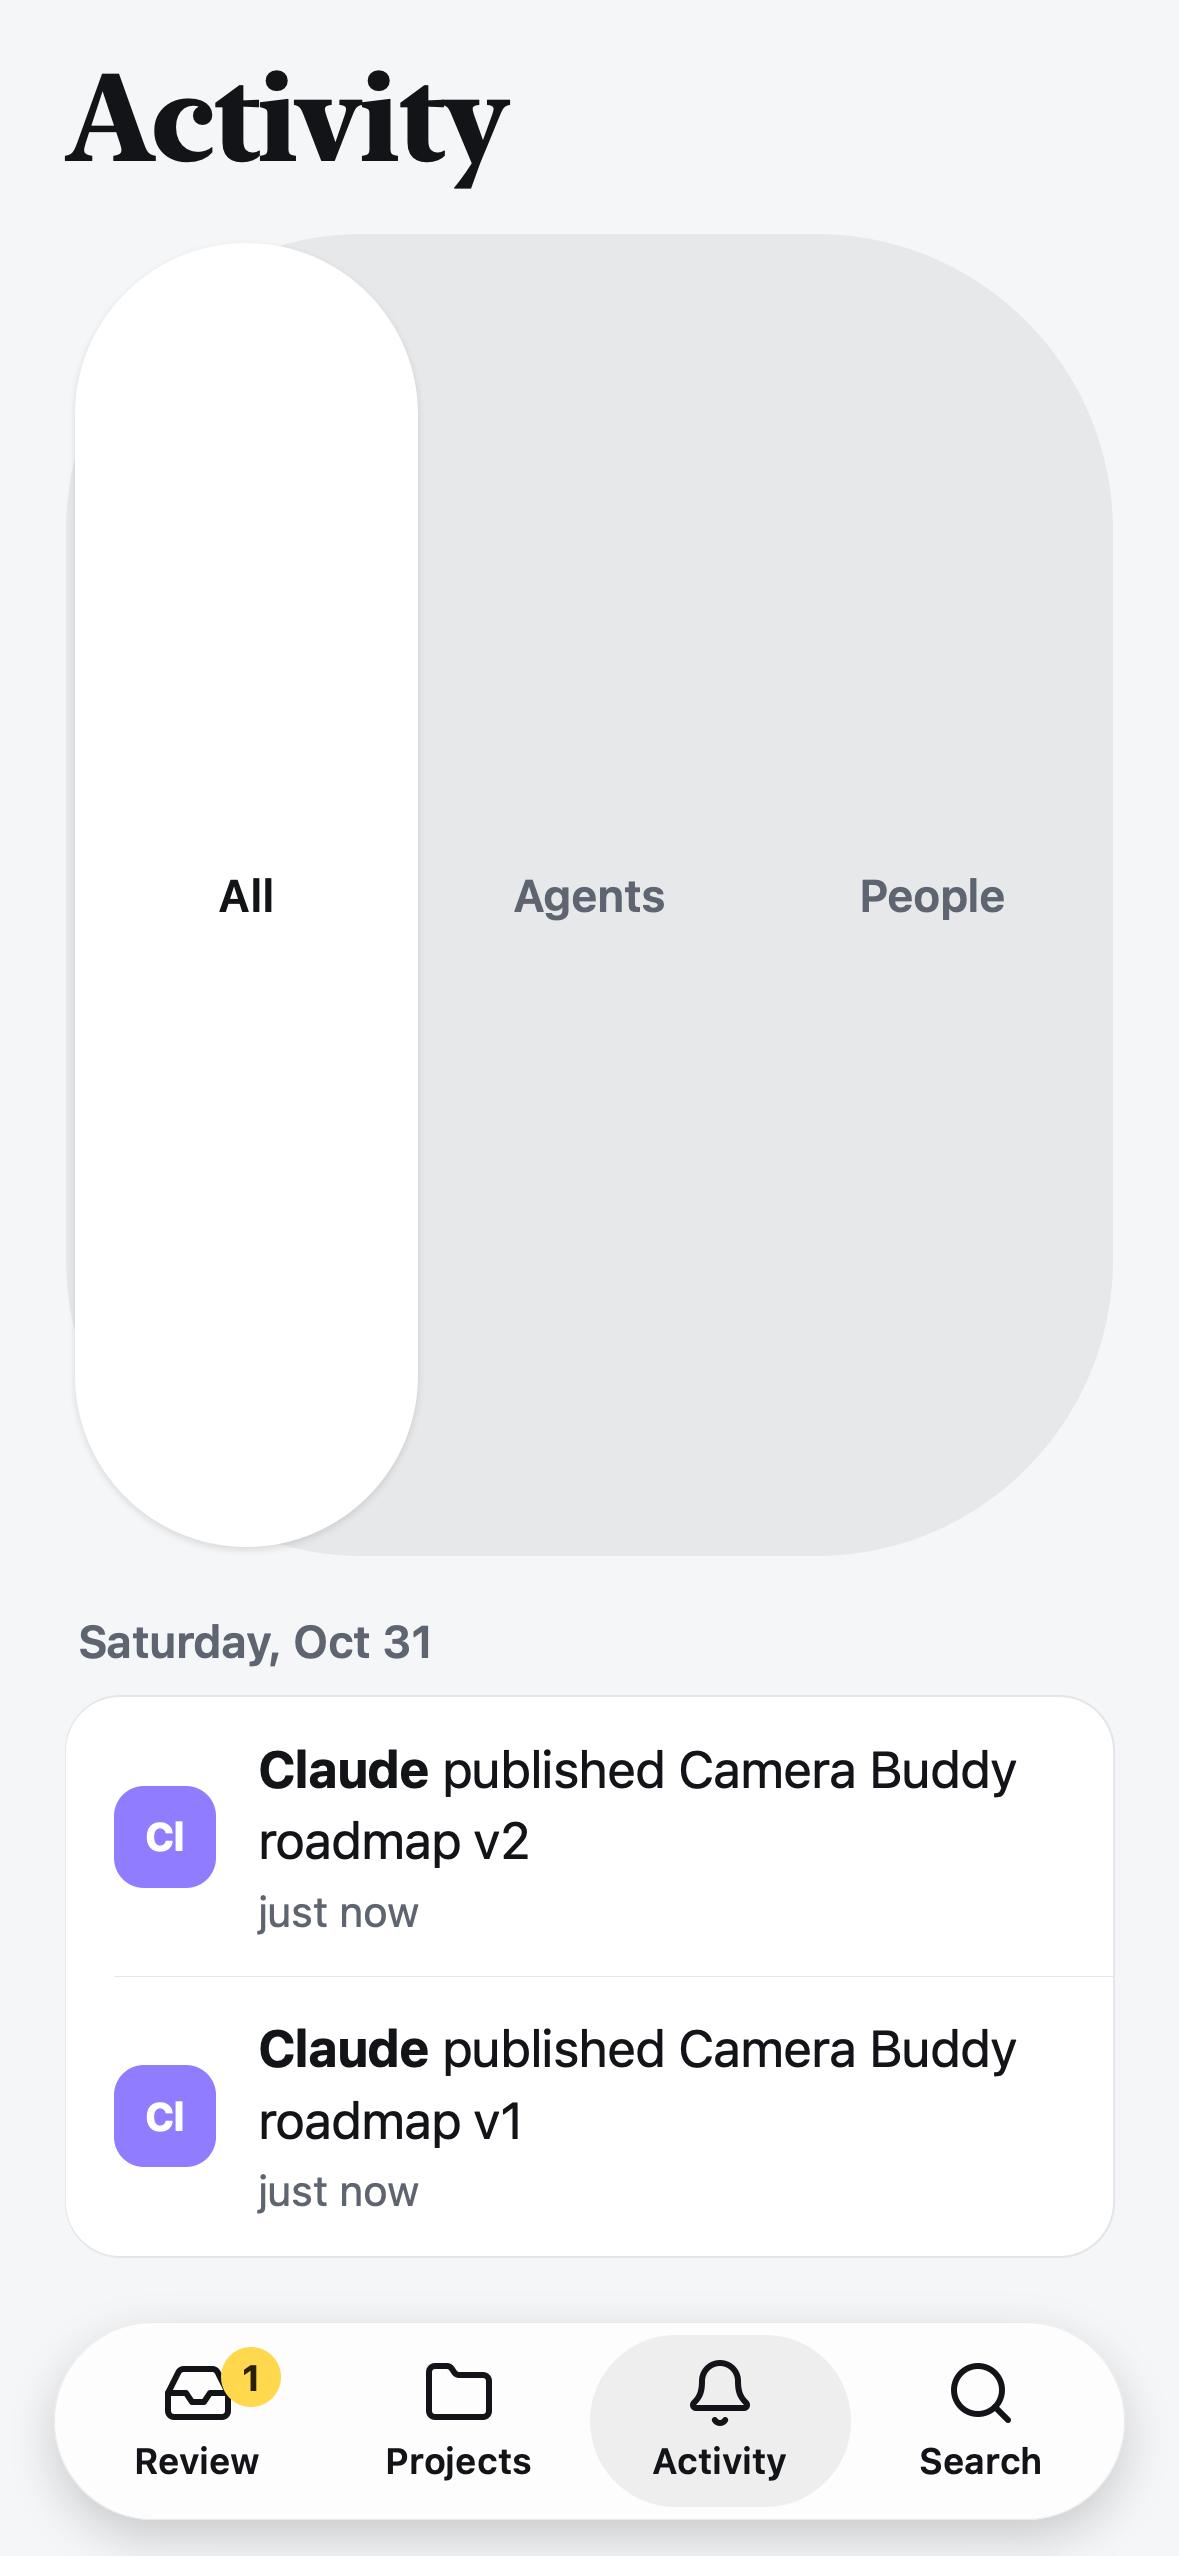
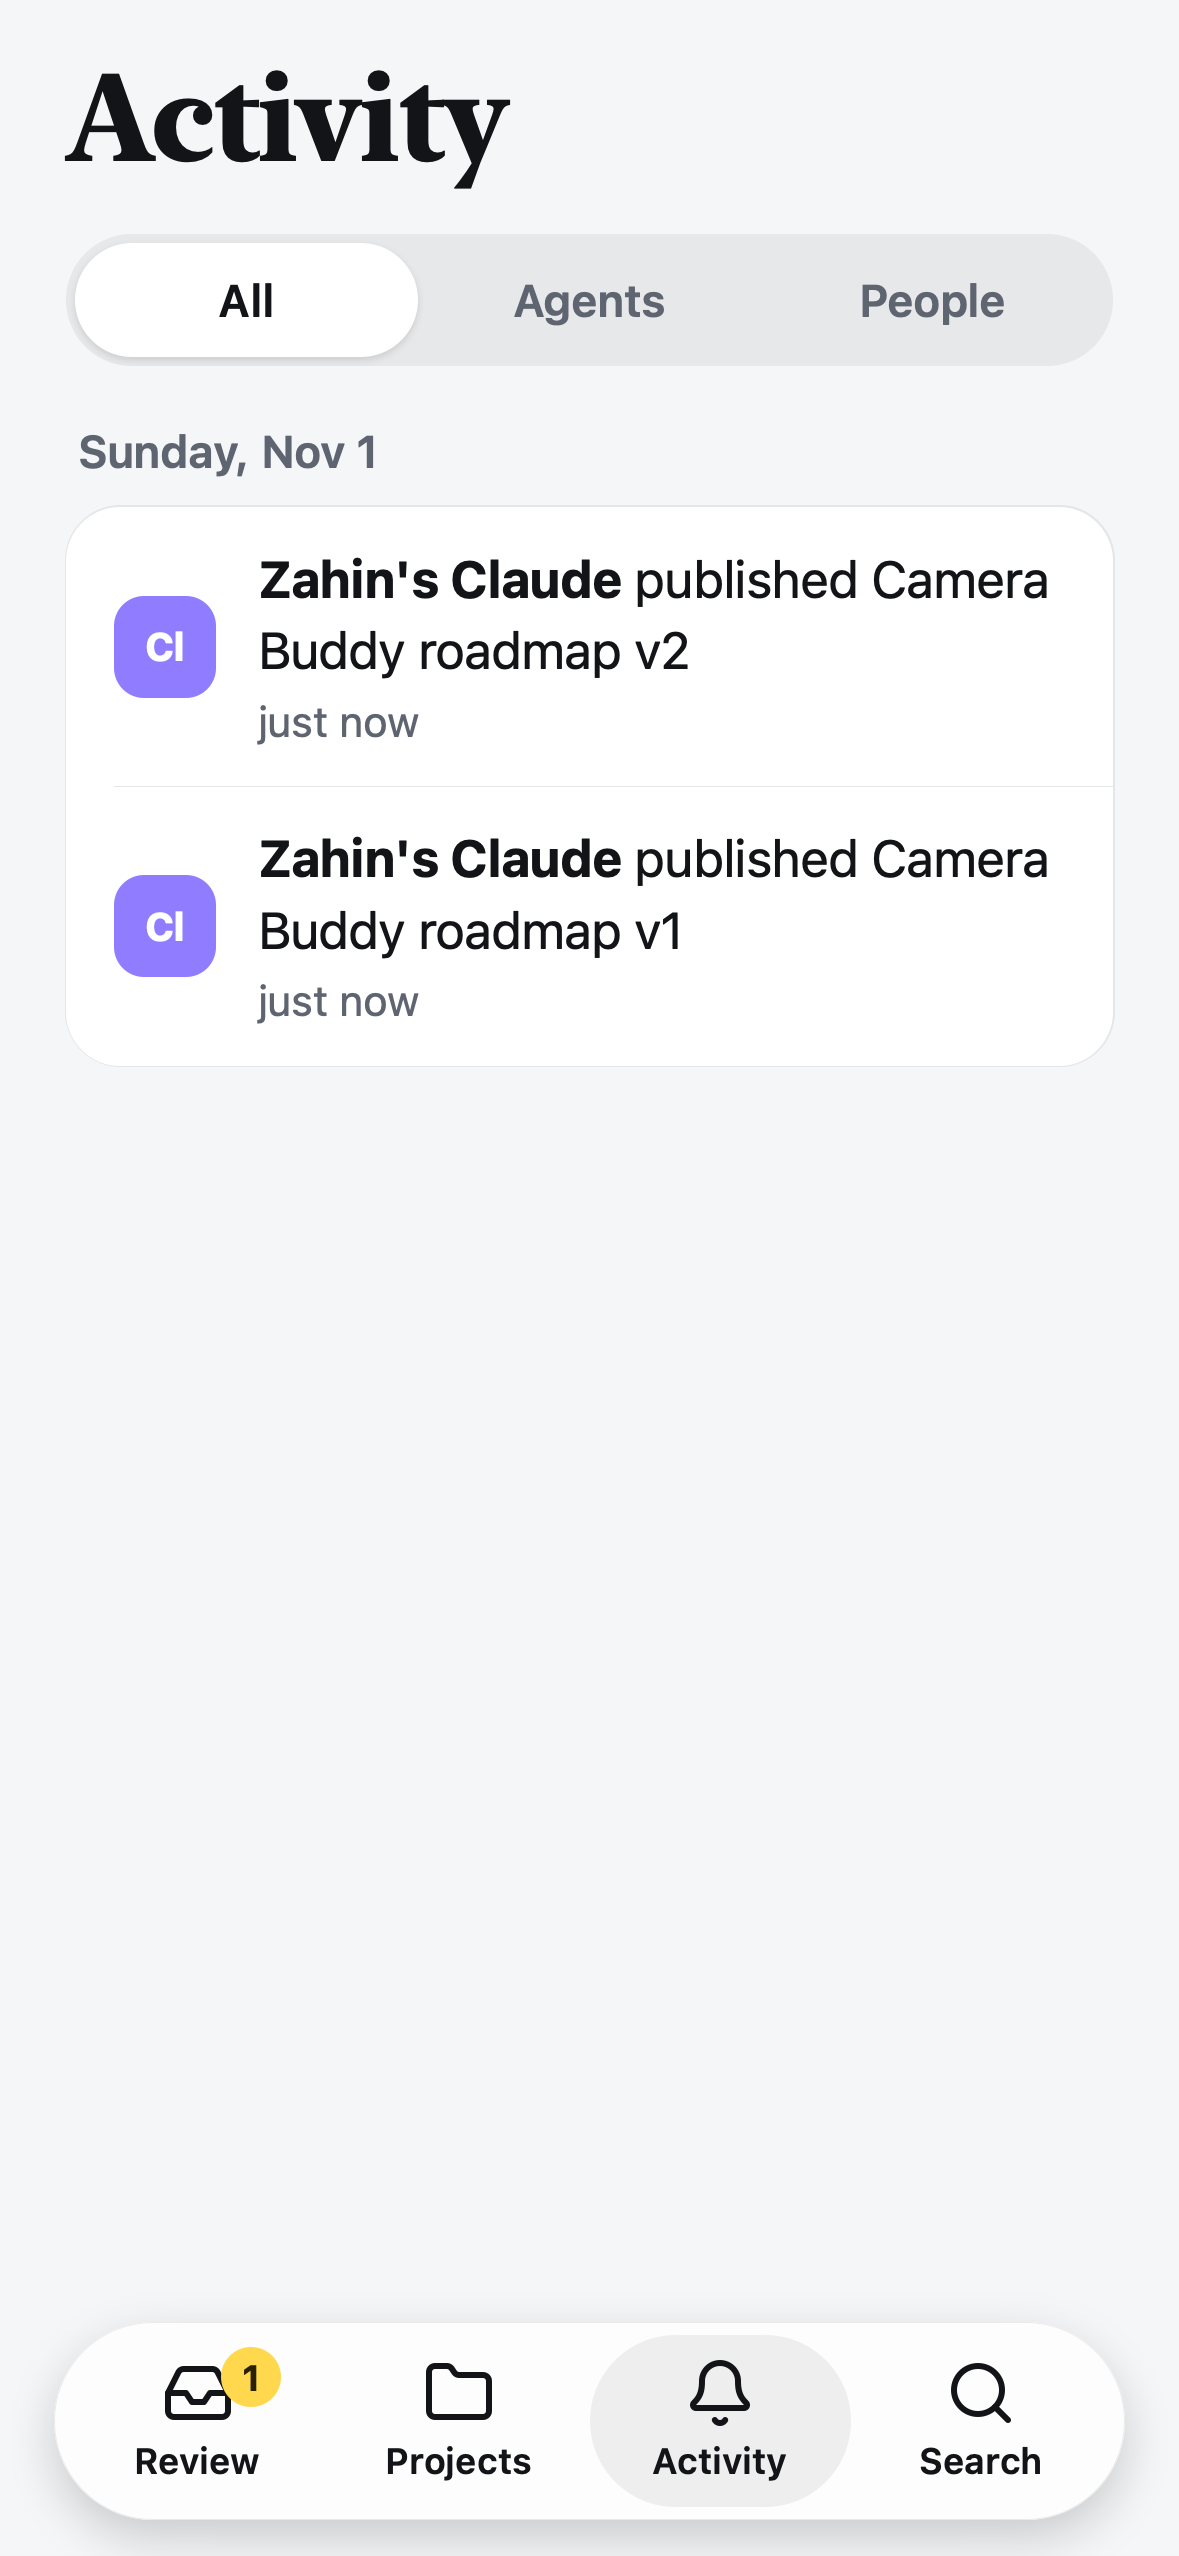
fix(viewer): keep segmented filters from filling column layouts
.seg had flex: 1 for its one place in a row, so in the page's column it
took all the spare height whenever the content was short. Activity showed
a 441-556px filter on phones; People, Organization and Compare had the
same flaw. It now keeps its height, and grows only inside .row.

diff --git a/apps/viewer/e2e/lifecycle.e2e.ts b/apps/viewer/e2e/lifecycle.e2e.ts
@@ -88,6 +88,8 @@ test("activity lists what happened, and filters", async ({ page }, info) => {
   await page.goto("/activity");
   await expect(page.getByText(/published Camera Buddy roadmap/).first()).toBeVisible();
   await shot(page, info.project.name, "05-5-activity");
+  // In the page's column, a filter that takes spare height swells whenever the list is short.
+  await expect(page.locator(".seg")).toHaveCSS("flex-grow", "0");
   await page.getByRole("button", { name: "Agents" }).click();
   await expect(page.locator(".av.agent").first()).toBeVisible();
 });

diff --git a/apps/viewer/src/styles/kit.css b/apps/viewer/src/styles/kit.css
@@ -519,10 +519,13 @@
 }
 .seg {
   display: flex;
-  flex: 1;
+  flex: none;
   background: var(--soft);
   border-radius: 99px;
   padding: 3px;
+}
+.row > .seg {
+  flex: 1;
 }
 .seg button {
   flex: 1;
@@ -1387,7 +1390,6 @@
   }
   .panel .seg {
     margin: 0 12px 10px;
-    flex: none;
   }
 }
 .hint {
